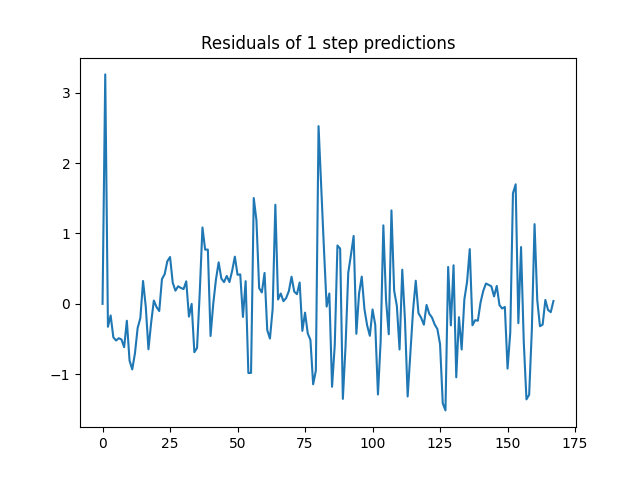
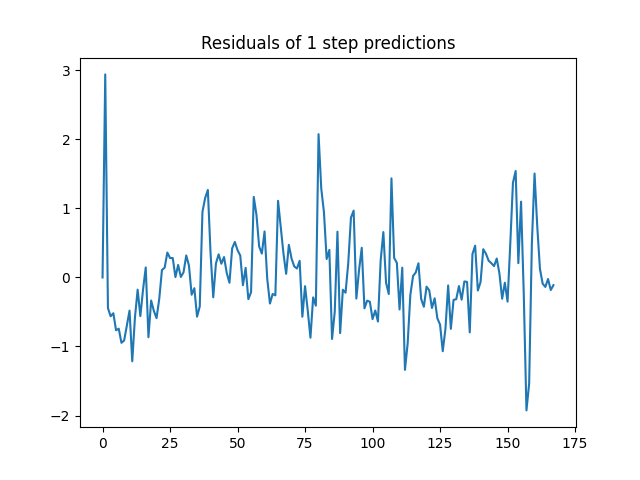
come on

diff --git a/harh/exercise2_2_harh.py b/harh/exercise2_2_harh.py
@@ -35,7 +35,7 @@ def kf_logLik_dt(params,y,U):
     L=0
     for t in range(1, n):
         # Predict
-        x_pred[t] = A * x_filt[t-1] + B.dot(U[t])
+        x_pred[t] = A * x_filt[t-1] + B.dot(U[t-1])
         P_pred[t] = A * P_filt[t-1] * A.transpose() + Q
 
         # Innovation
@@ -81,7 +81,7 @@ bounds = [
 
 
 A = (np.random.rand()-0.5)*2
-B = (np.random.rand(3)-0.5)*2
+B = (np.random.rand(3))*2
 C = (np.random.rand()-0.5)*2
 Q = (np.random.rand()-0.5)*2
 R = (np.random.rand()-0.5)*2
@@ -94,7 +94,7 @@ start = np.concatenate([
     [C, Q, R,  # 4–6
      X0, P0]   # 7–8
 ])
-
+np.array([0.9, 0.1, 0.1, 0.1, 1.0, 0.1, 0.1, 20.0])
 result = estimate_dt(df,start,bounds)
 
 y = df["Y"].values
@@ -139,8 +139,6 @@ axes[1].set_title("PACF of 1-step residuals")
 
 plt.tight_layout()
 plt.savefig(f"{PARENT_DIR}/images/2.2/ACF_PACF.png")
-plt.show()
-
 # 1) QQ–plot of innovations
 plt.figure()
 sm.qqplot(innovations, line="45", fit=True)
@@ -193,4 +191,3 @@ ax_pacf.set_title("PACF of 1‑Step Residuals")
 
 plt.tight_layout()
 plt.savefig(f"{PARENT_DIR}/images/2.2/diagnostic_2x2.png")
-plt.show()
